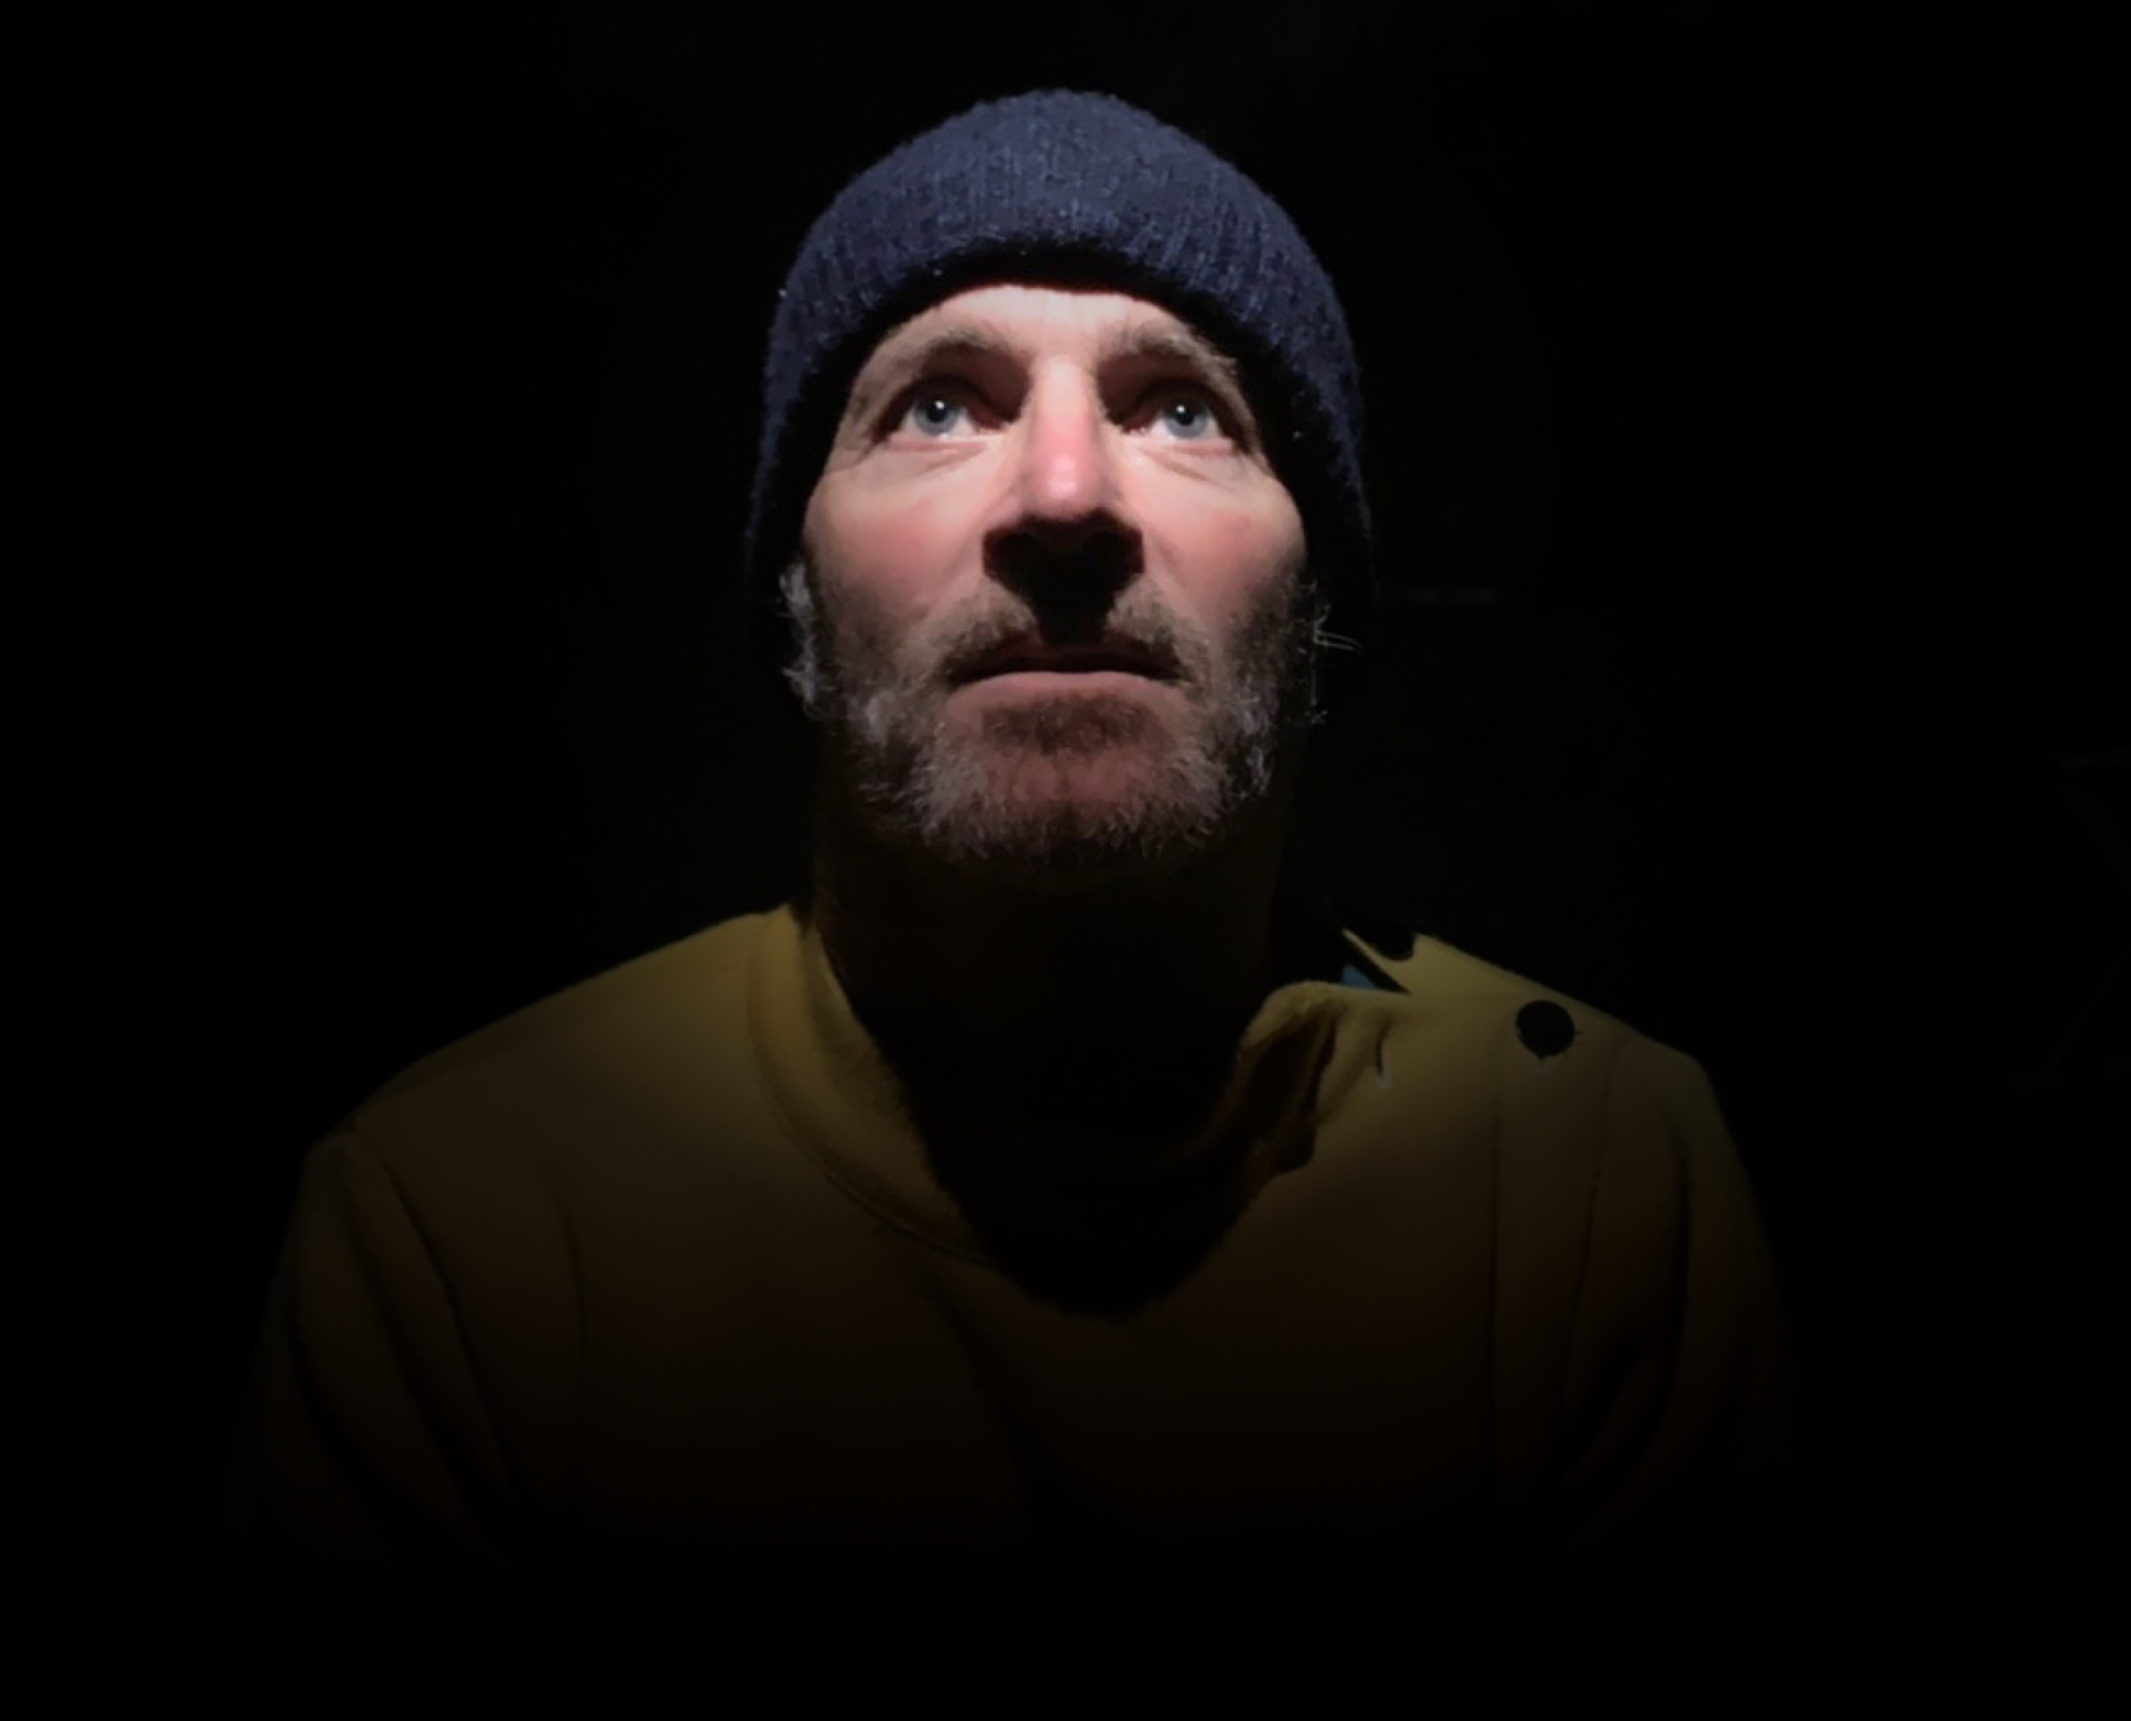
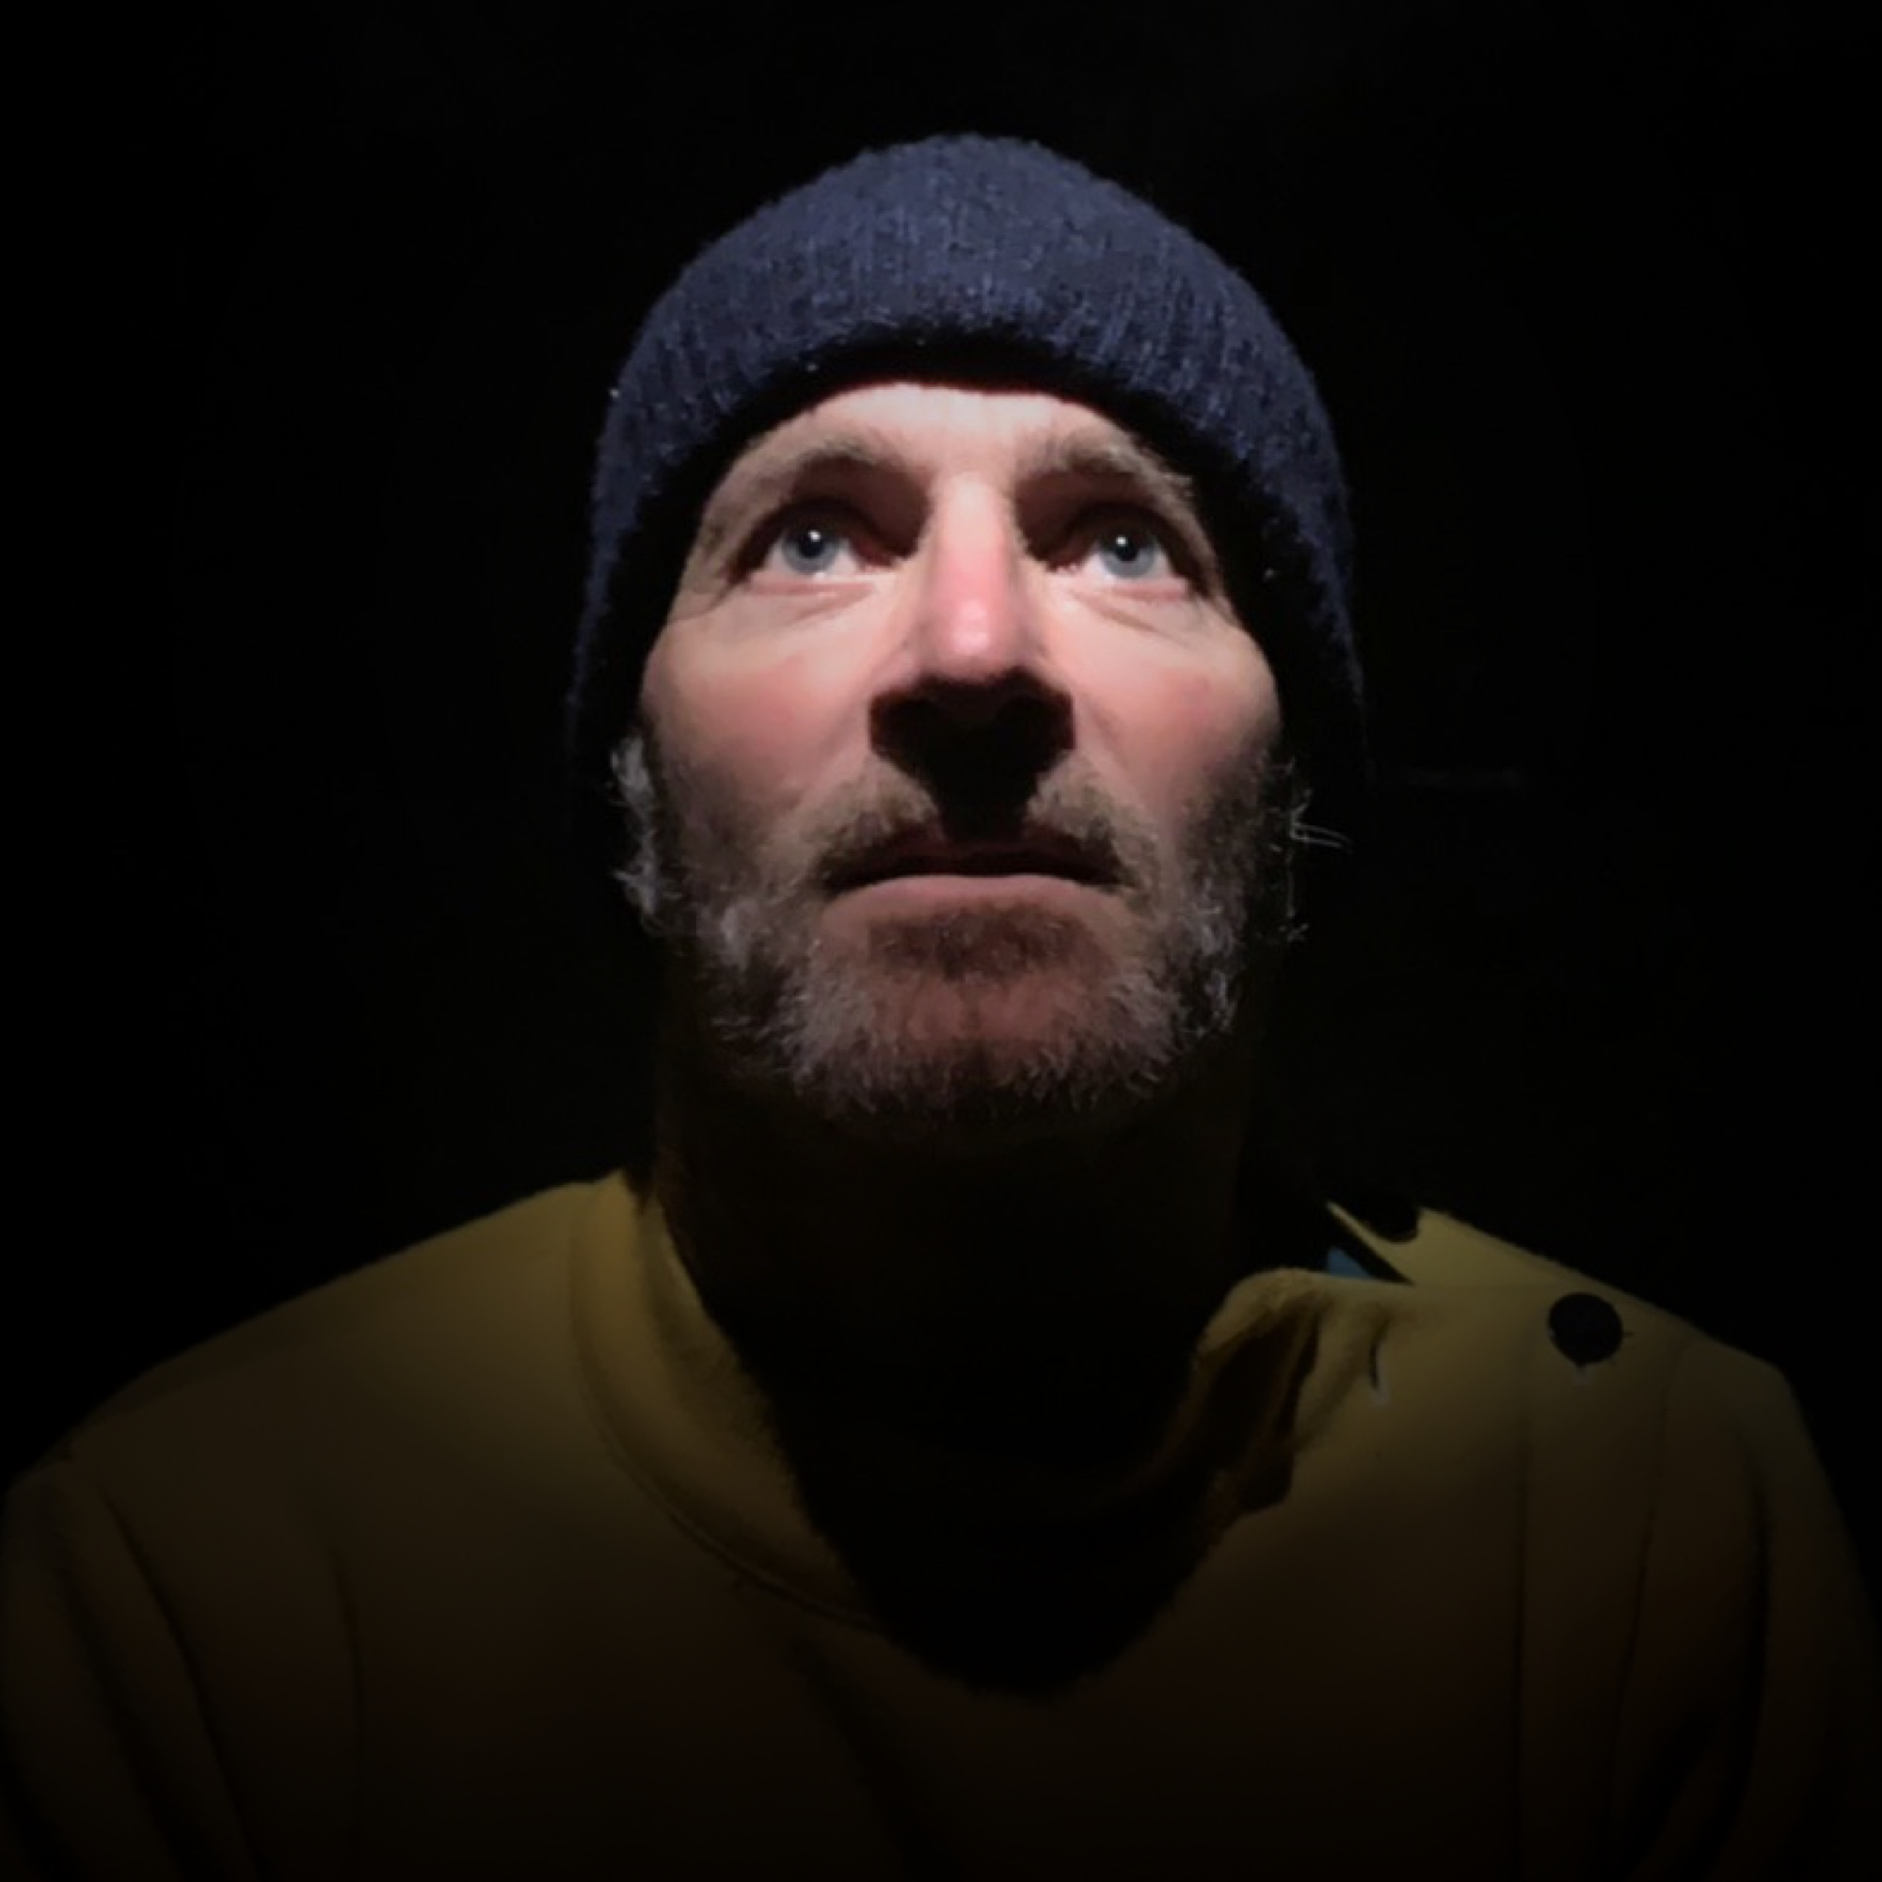
ok

Changed region(s): [[0.155, 0.0312, 0.961, 0.8731], [0.031, 0.686, 0.217, 0.8419]]

diff --git a/pages/index.vue b/pages/index.vue
@@ -1,26 +1,20 @@
 <template>
-  <div class='page'>
-    <container>
-      <div>
+  <div>
+    <div class='header'>
+      <container class='hero'>
         <div :class='{"person manolo": true, "loaded": this.imageLoaded}' :style="{backgroundImage: `url(${baseFolder}/misc/manolo.jpg)`}">
         </div>
-      </div>
-    </container>
-    <container class='hero'>
-      <div class='title'>Manolo Chrétien</div>
-      <separator></separator>
-      <b>Manolo Chrétien</b> fell from the sky onto the Orange Air Base in France, 1966. He grew up amongst hangars, tarmac, kerosene and the aluminum skins of jet prototypes that his father, <a target="_blank" href='https://en.wikipedia.org/wiki/Jean-Loup_Chr%C3%A9tien'>France’s first Astronaut</a>, would one day pilot, a universe where Manolo developed his passion for the design and technology power, coexisting with industrial structures, metallic surfaces and infinite detail.
-    </container>
-    <separator></separator>
-
-    <container>
-      <category-item
-        v-for='(category, i) in categories'
-        :key='i'
-        :category='category'
-        :baseFolder='baseFolder'
-      ></category-item>
-    </container>
+        <div>
+          <b>Manolo Chrétien</b> fell from the sky onto the Orange Air Base in France, 1966. He grew up amongst hangars, tarmac, kerosene and the aluminum skins of jet prototypes that his father, <a target="_blank" href='https://en.wikipedia.org/wiki/Jean-Loup_Chr%C3%A9tien'>France’s first Astronaut</a>, would one day pilot, a universe where Manolo developed his passion for the design and technology power, coexisting with industrial structures, metallic surfaces and infinite detail.
+        </div>
+      </container>
+    </div>
+    <category-item
+      v-for='(category, i) in categories'
+      :key='i'
+      :category='category'
+      :baseFolder='baseFolder'
+    ></category-item>
   </div>
 </template>
 
@@ -76,9 +70,15 @@ export default {
     opacity: 1;
   }
 }
-  .page {
+  .header {
     padding: ($spacing * 10) 0;
-    padding-top: $spacing * 5;
+    padding-bottom: $spacing * 3;
+    display: flex;
+    background: black;
+    position: relative;
+    box-shadow: 0px 0px 100px 100px black;
+    z-index: 2;
+
   }
 
   .separator {
@@ -86,13 +86,13 @@ export default {
   }
 
   .person {
-    height: 200px;
-    width: 100%;
-    height: 457px;
-    background-size: cover !important;
+    flex: 0 0 300px;
+    height: 300px;
     opacity: 0;
     transition: .5s ease-in-out;
     transform: translateY(2%);
+    background-size: 100% !important;
+    margin-right: $spacing * 2;
 
     &.loaded {
       transform: translateY(0);
@@ -104,9 +104,11 @@ export default {
     font-size: 24px;
     font-weight: 300;
     line-height: 1.5;
-    margin-top: -100px !important;
     position: relative;
-
+    display: flex;
+    font-size: 23px;
+    max-width: 1000px !important;
+    align-items: center;
     .title {
       font-size: 40px;
       text-align: center;

diff --git a/components/CategoryItem.vue b/components/CategoryItem.vue
@@ -1,28 +1,99 @@
 <template>
-<div class='item' :style='{backgroundImage: `url(${baseFolder}/gallery_wall/1.jpg)`}'>
+<div class='wrapper'>
+  <div
+    :class='{background: true, [`go-to-artwork-${this.animationDirection}`]: true}'
+    :style='{backgroundImage: `url(${baseFolder}/gallery_wall/1.jpg)`}'
+  >
+    <div class='artworks'>
+      <Artwork
+        v-for="(artwork, i) in [this.artwork]" :key='i' v-bind='artwork'
+        @click.native='animationDirection = i'
+      ></Artwork>
+    </div>
+  </div>
 </div>
 </template>
 <script>
   import data from '~/assets/data.yml'
-  import { filter } from 'lodash'
+  import { filter, findIndex } from 'lodash'
+  import Artwork from '~/components/Artwork'
 
   export default {
     props: ['category', 'baseFolder'],
+    components: { Artwork },
     data() {
       const artworks = filter(data.artworks, (a) => { return a.category == this.category } )
 
       return {
-        artworks: artworks
+        artworks: artworks,
+        currentArtwork: artworks[0],
+        animationDirection: false
+      }
+    },
+    computed: {
+      index() {
+        return findIndex(this.artworks, (artwork) => artwork.slug == this.currentArtwork.slug)
+      },
+      nextArtwork() {
+        if(this.artworks[this.index + 1]) {
+          return this.artworks[0]
+        } else {
+          return this.artworks[this.index + 1]
+        }
+      },
+      prevArtwork() {
+        if(this.artworks[this.index - 1]) {
+          return this.artworks[this.artworks.length - 1]
+        } else {
+          return this.artworks[this.index - 1]
+        }
       }
     }
   }
 </script>
 
 <style lang='scss' scoped>
-.item {
-  height: 260px;
-  background-size: 200% !important;
-  margin-top: $spacing * 5;
-  border: 2px solid white;
+.wrapper {
+  overflow: hidden;
+  padding-top: 50px;
+}
+.background {
+  height: 600px;
+  background-size: cover !important;
+  background-position: center center;
+  position: relative;
+
+  &.go-to-artwork-0 {
+    transform: translateX(-58%)
+  }
+
+  &.go-to-artwork-2 {
+    transform: translateX(58%)
+  }
+
+  &:after, &:before {
+    content: "";
+    position: absolute;
+    top: 0;
+    width: 100%;
+    right: -100%;
+    background: inherit;
+    bottom: 0;
+    background-size: cover !important;
+    background-position: center center;
+  }
+
+  &:before {
+    left: -100%;
+    right: inherit;
+  }
+}
+
+.artwork {
+  position: absolute;
+  top: 40px;
+  bottom: 0;
+  margin: auto;
+  left: 0; right: 0;
 }
 </style>

diff --git a/components/Artwork.vue b/components/Artwork.vue
@@ -1,0 +1,14 @@
+<template>
+  <div class='artwork'>
+  </div>
+</template>
+
+<style lang='scss' scoped>
+.artwork {
+  height: 450px;
+  width: 450px;
+  background: black;
+  box-shadow: 0px 0px 1px black, 0px 8px 1px -5px rgba(black, .2);
+  z-index: 999;
+}
+</style>

diff --git a/components/Detail/Gallery.vue b/components/Detail/Gallery.vue
@@ -226,6 +226,11 @@
   top: 20px;
   transition: .15s ease-in-out transform;
 
+  @media(max-width: 500px) {
+    width: 300px;
+    height: 300px;
+  }
+
   &.size-3 {
 
   }

diff --git a/pages/artworks/_slug.vue b/pages/artworks/_slug.vue
@@ -212,9 +212,6 @@ export default {
   margin-bottom: -4px;
 }
 
-
-
-
 .description {
   font-size: 20px;
   font-weight: 100;
